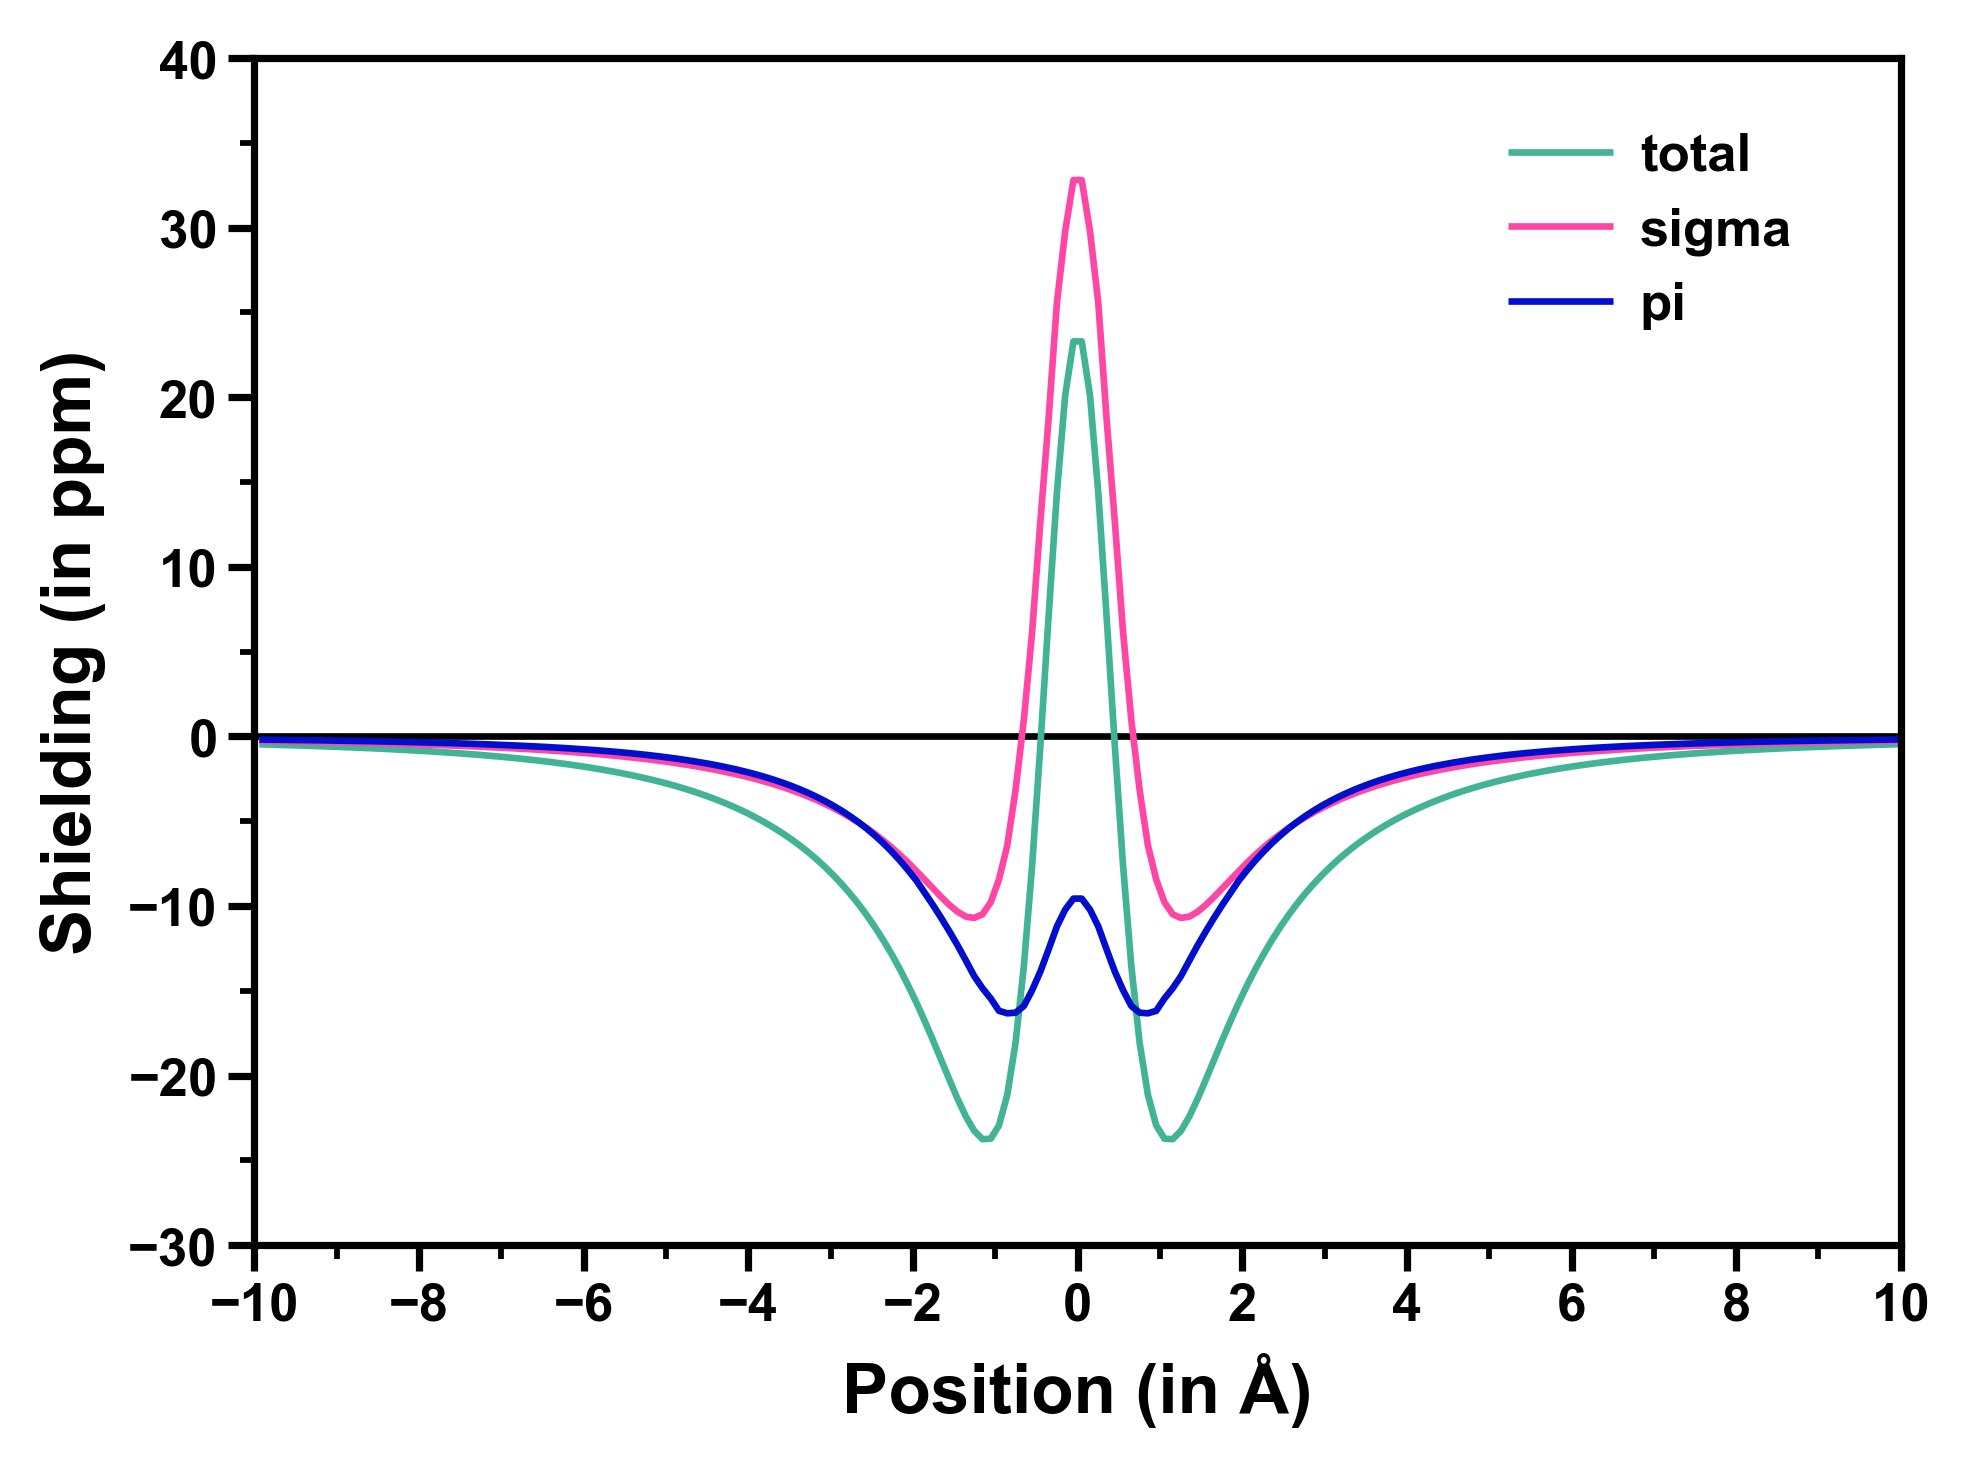
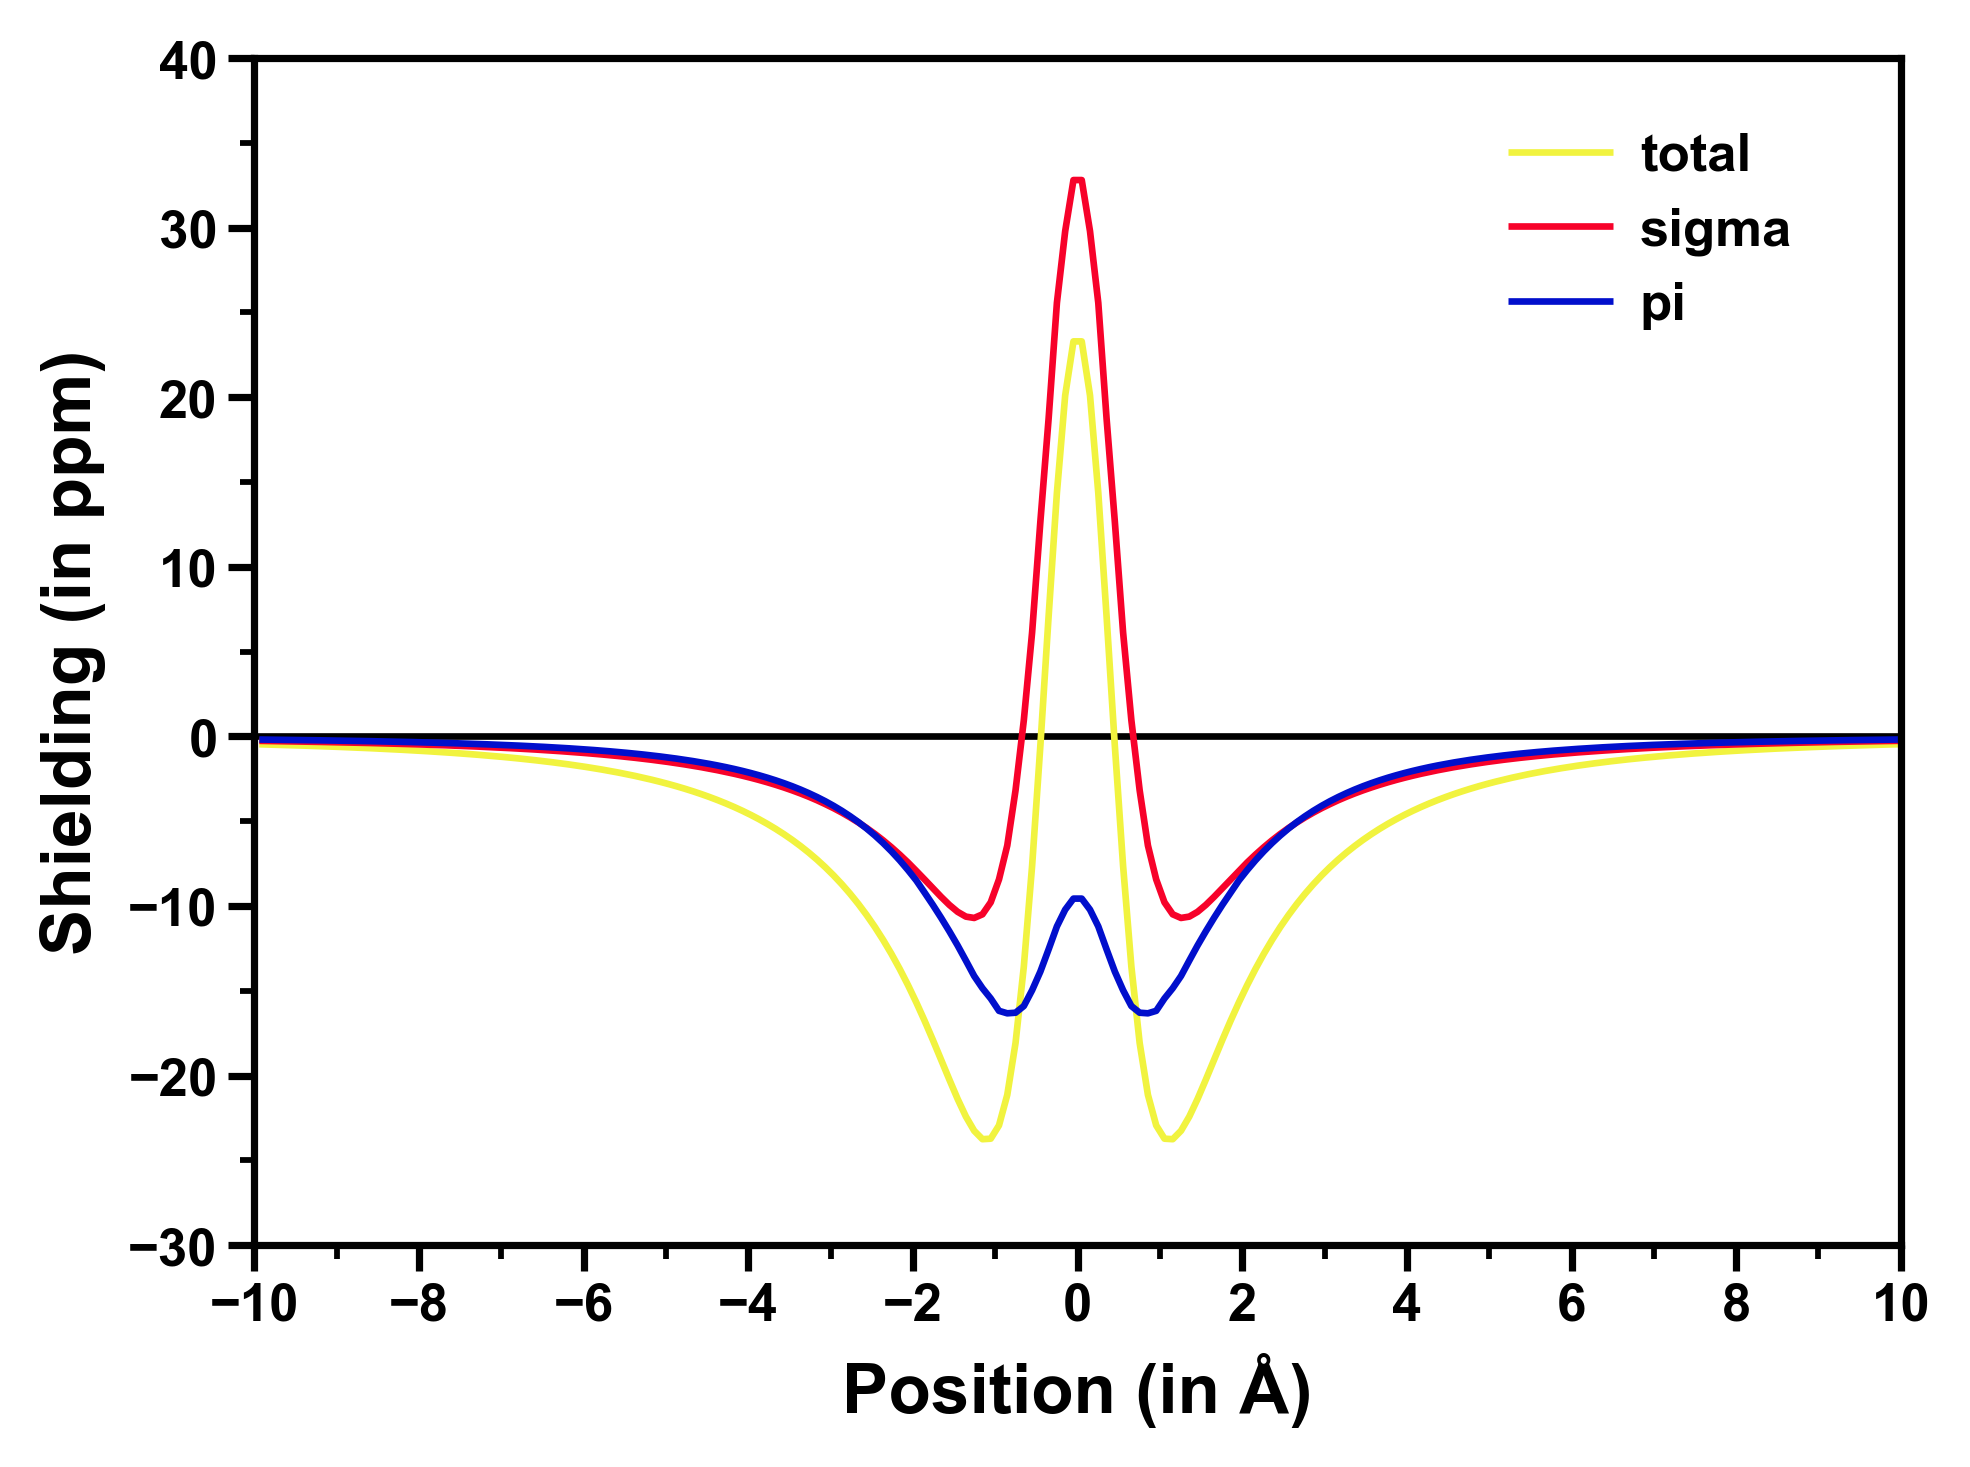
update nics-1d

diff --git a/line curve/NICS-1D/NICS-1D.py b/line curve/NICS-1D/NICS-1D.py
@@ -25,7 +25,7 @@ rc['xtick.minor.size'] = 2.5
 # 创建实例
 fig, ax = pplt.subplots(figsize=(5.4*0.9,4*0.9), dpi=300)
 
-colors = ['green blue', 'barbie pink', 'true blue']
+colors = ['off yellow', 'cherry red', 'true blue']
 
 # 绘制整体贡献的 NICS 曲线
 ax.plot(nics_all.iloc[:, -2], nics_all.iloc[:, -1], label='total', linewidth=1.2, color=colors[0])
